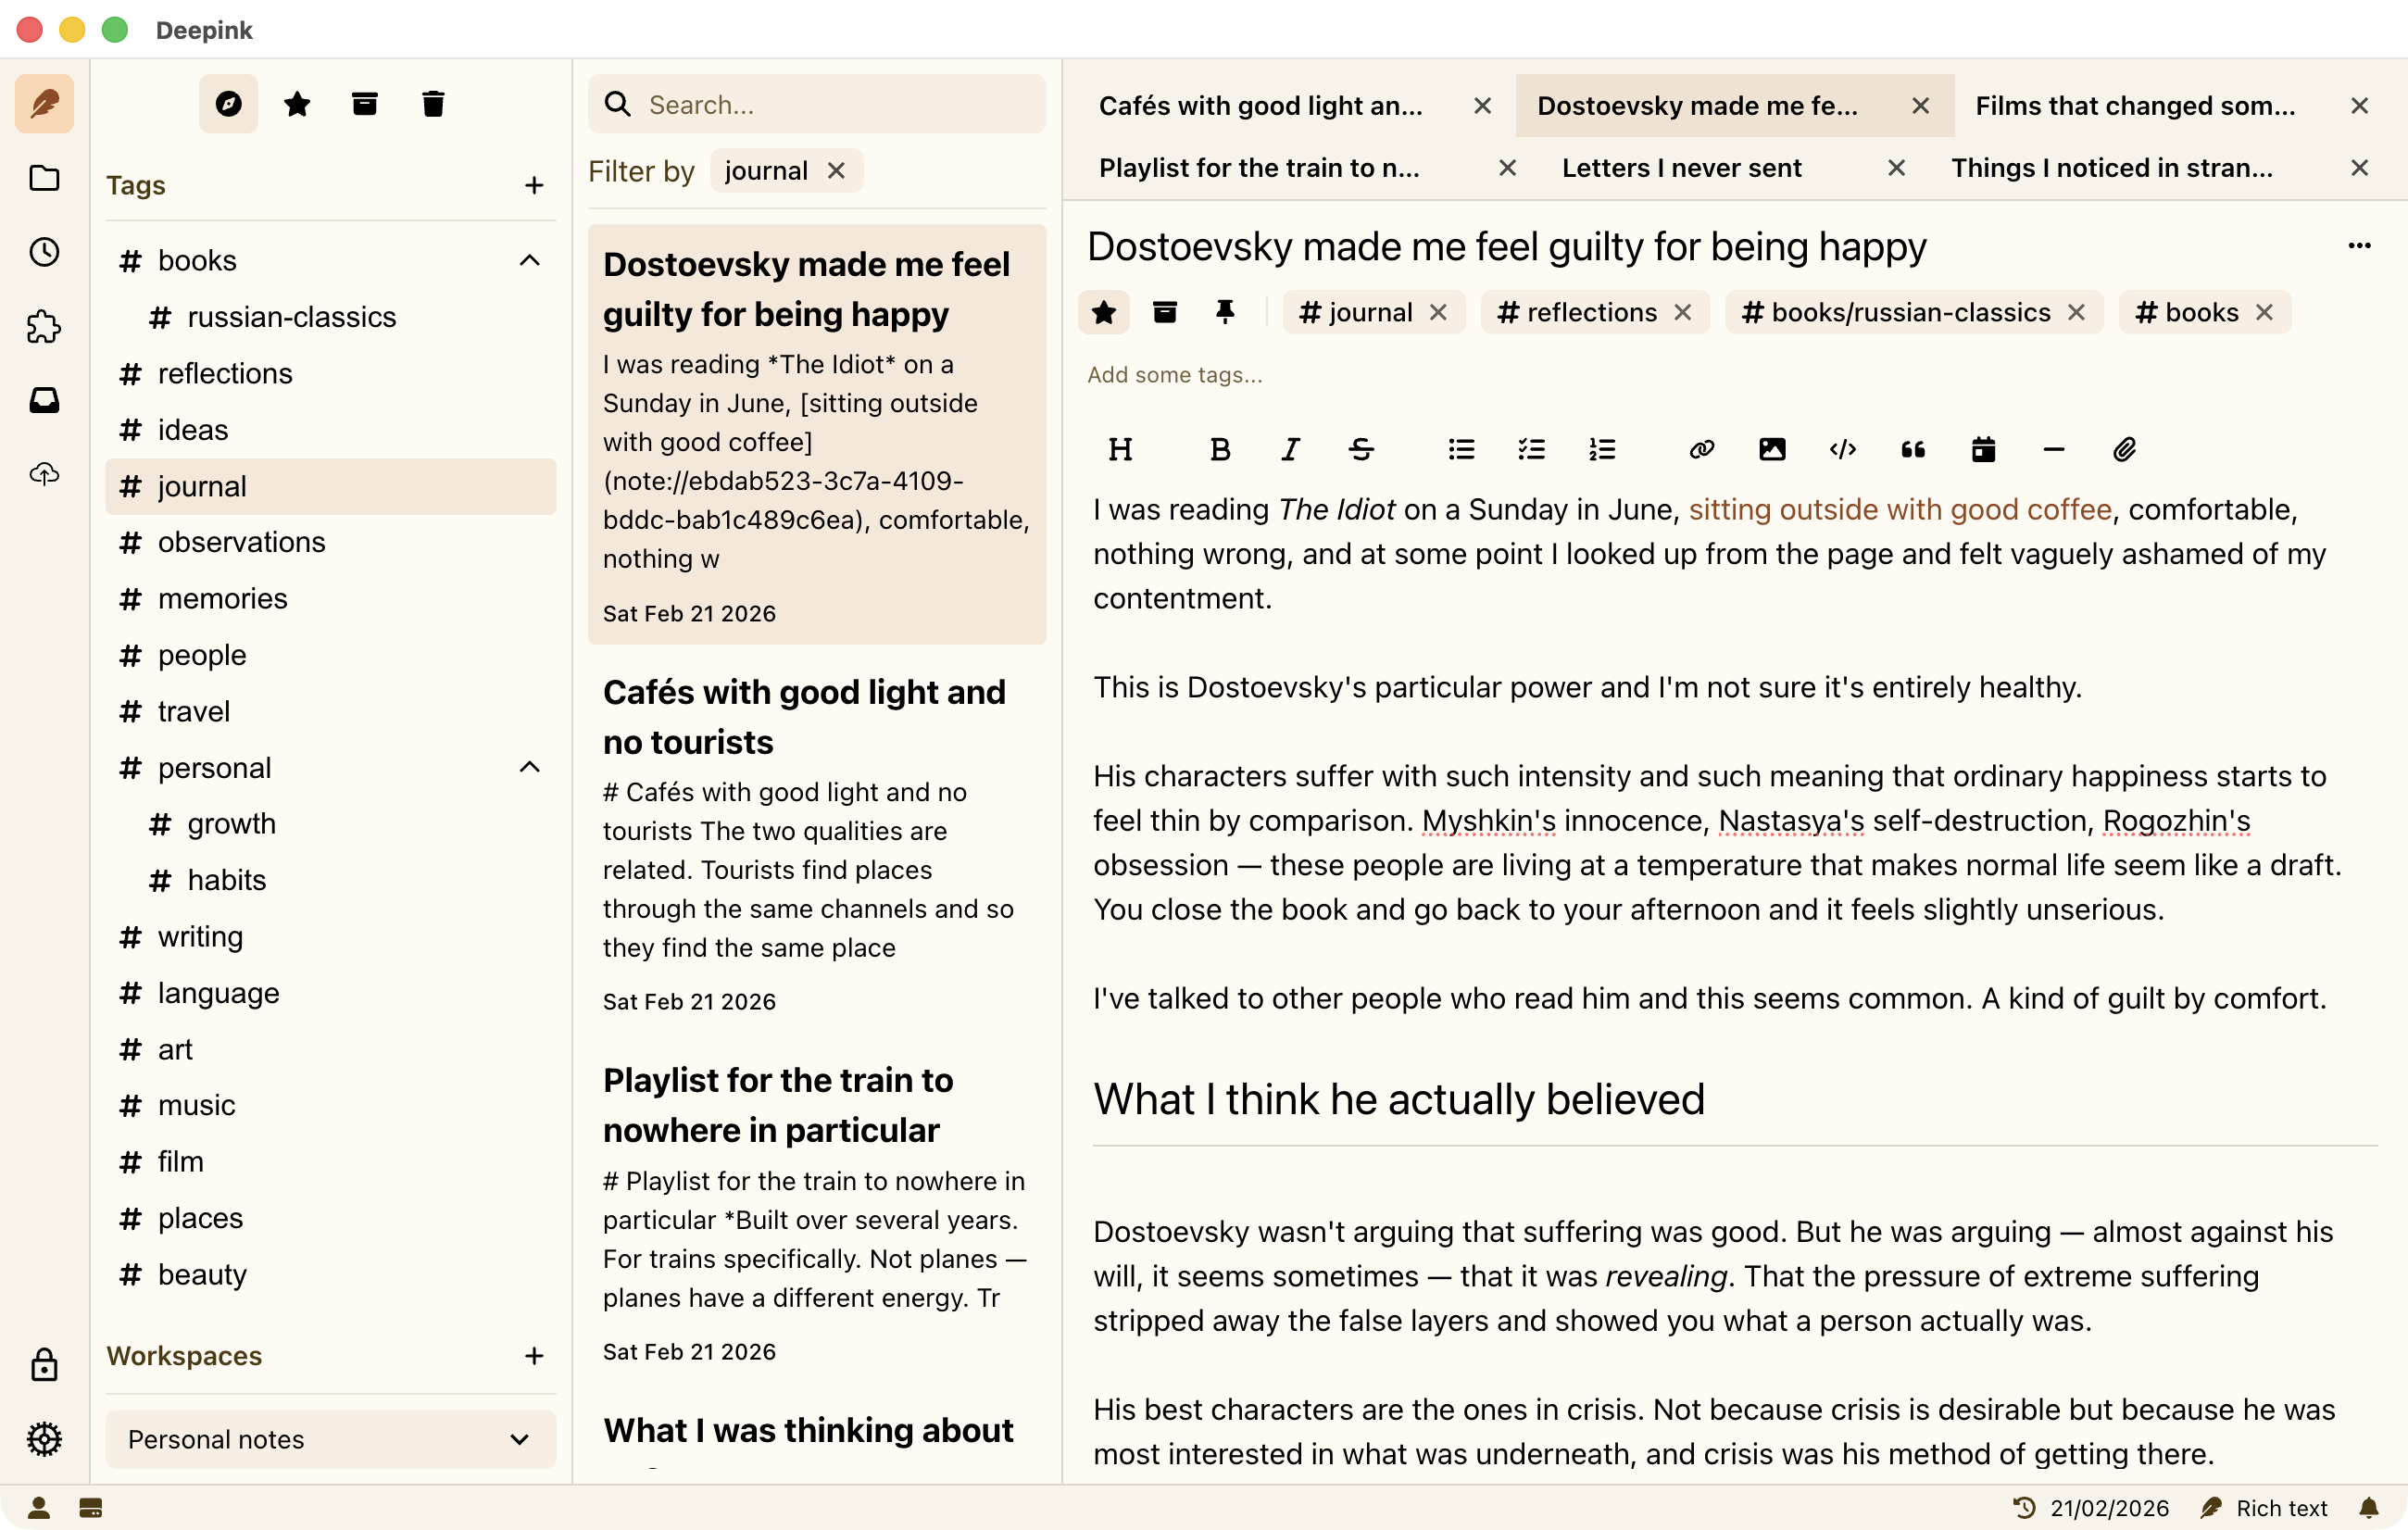
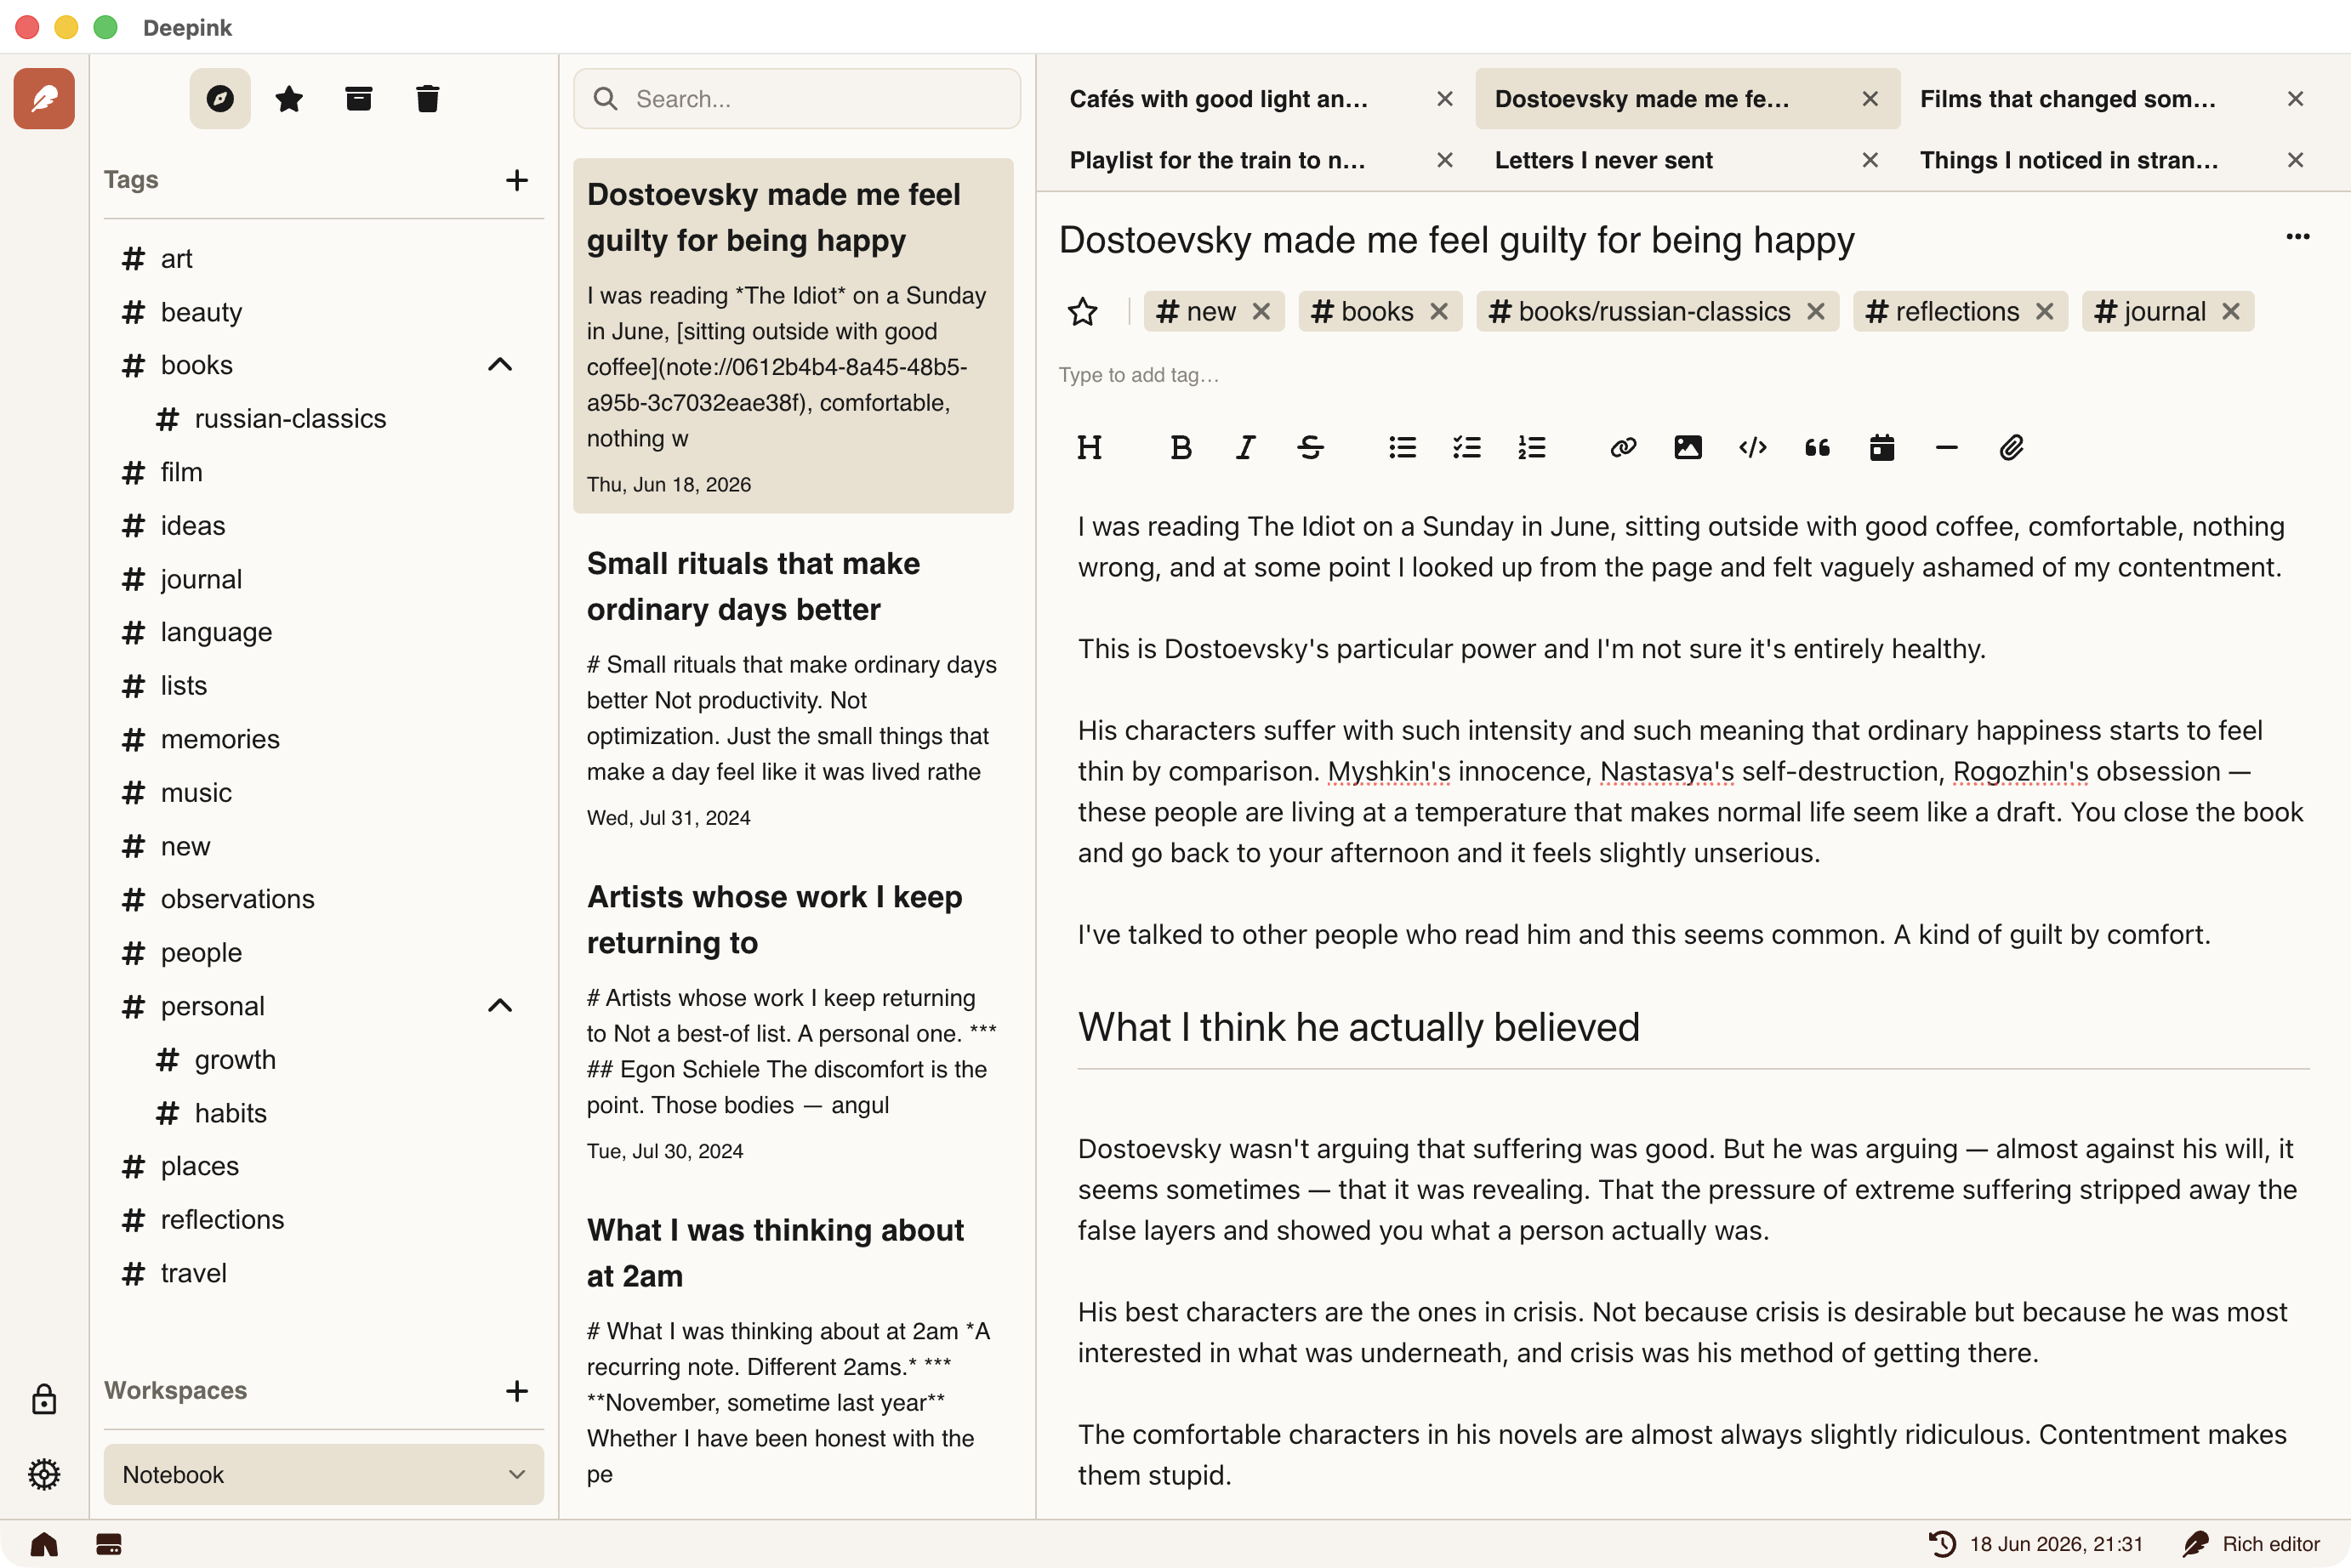
docs: update screenshots

diff --git a/packages/site/src/content/docs/concepts/snapshots.md b/packages/site/src/content/docs/concepts/snapshots.md
@@ -2,6 +2,8 @@
 title: Snapshots
 ---
 
+![Note versions list](./snapshots.png)
+
 Each note has an editing history. Deepink takes snapshots of note content a few seconds after you finish editing, so you can restore a previous version of a note at any time.
 
 That feature is especially useful to track the evolution of your ideas and processes over time.

diff --git a/packages/site/src/content/docs/concepts/vault.md b/packages/site/src/content/docs/concepts/vault.md
@@ -2,6 +2,8 @@
 title: Vault
 ---
 
+![Vault creation screen](../introduction/vault-creation.png)
+
 A vault is a top-level container that stores all your data.
 
 Each vault is a directory on disk that contains workspaces, notes, attachments, and related metadata.

diff --git a/packages/site/src/content/docs/concepts/workspace.md b/packages/site/src/content/docs/concepts/workspace.md
@@ -2,6 +2,8 @@
 title: Workspace
 ---
 
+![Workspace creation popup](./workspace-creation.png)
+
 A workspace is a separate, isolated area inside your encrypted vault.
 
 It is designed to split your data into independent domains - such as personal life, work, research, or drafts - so they never mix.

diff --git a/packages/site/src/content/docs/guides/import-export.md b/packages/site/src/content/docs/guides/import-export.md
@@ -2,6 +2,8 @@
 title: Import & Export
 ---
 
+![Import & Export window](./import-export.png)
+
 Deepink gives you full control over your notes.
 
 You can import notes from external files into Deepink or export your notes at any time for backup, migration, or use in other applications.

diff --git a/packages/site/src/content/docs/introduction/index.md b/packages/site/src/content/docs/introduction/index.md
@@ -31,8 +31,6 @@ You can create a new note by clicking the button or using the hotkey `Ctrl+N` or
 
 With Deepink, you have flexibility in how you organize your notes.
 
-!["The Deepink screen with a workspace content"](workspace-content.png)
-
 ## Tags
 
 Tags are a powerful way to label your notes.

diff --git a/packages/site/src/content/docs/introduction/security.md b/packages/site/src/content/docs/introduction/security.md
@@ -3,7 +3,7 @@ title: Security
 description: Analysis and insights about a note-taking app's security threats.
 ---
 
-![Original Oil Painting Pet Portrait 8×8 Inches, Cute Tuxedo Cat. Ebay item id is 327104784498, created by mia028-5](<cute-oil-paint.webp>)
+![Advanced encryption screen with options to configure encryption algorithm and key derivation function](./encryption-options.png)
 
 The Deepink mission is to make note-taking simple, quick, and safe.
 